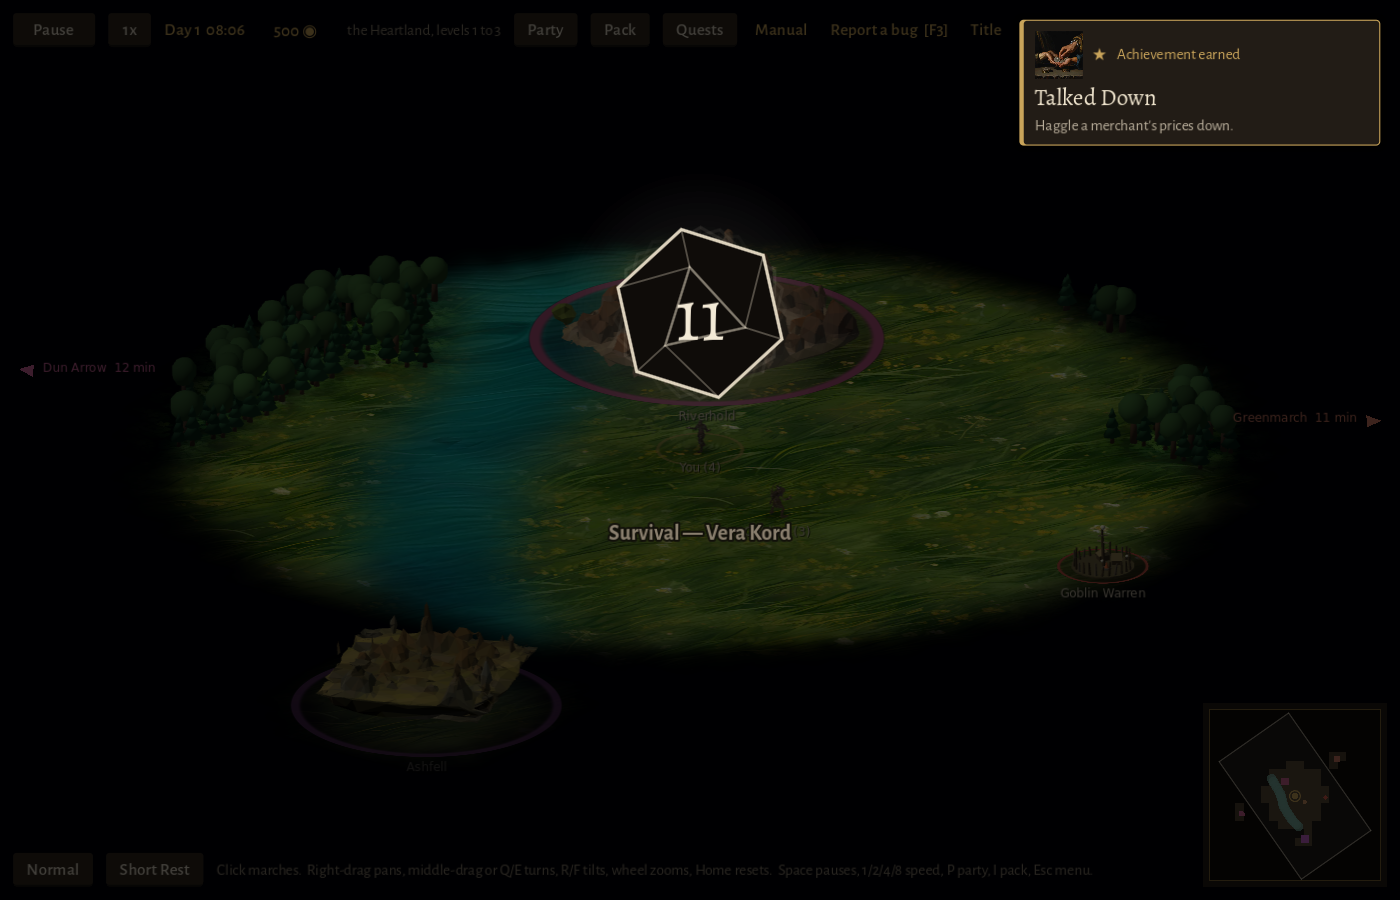
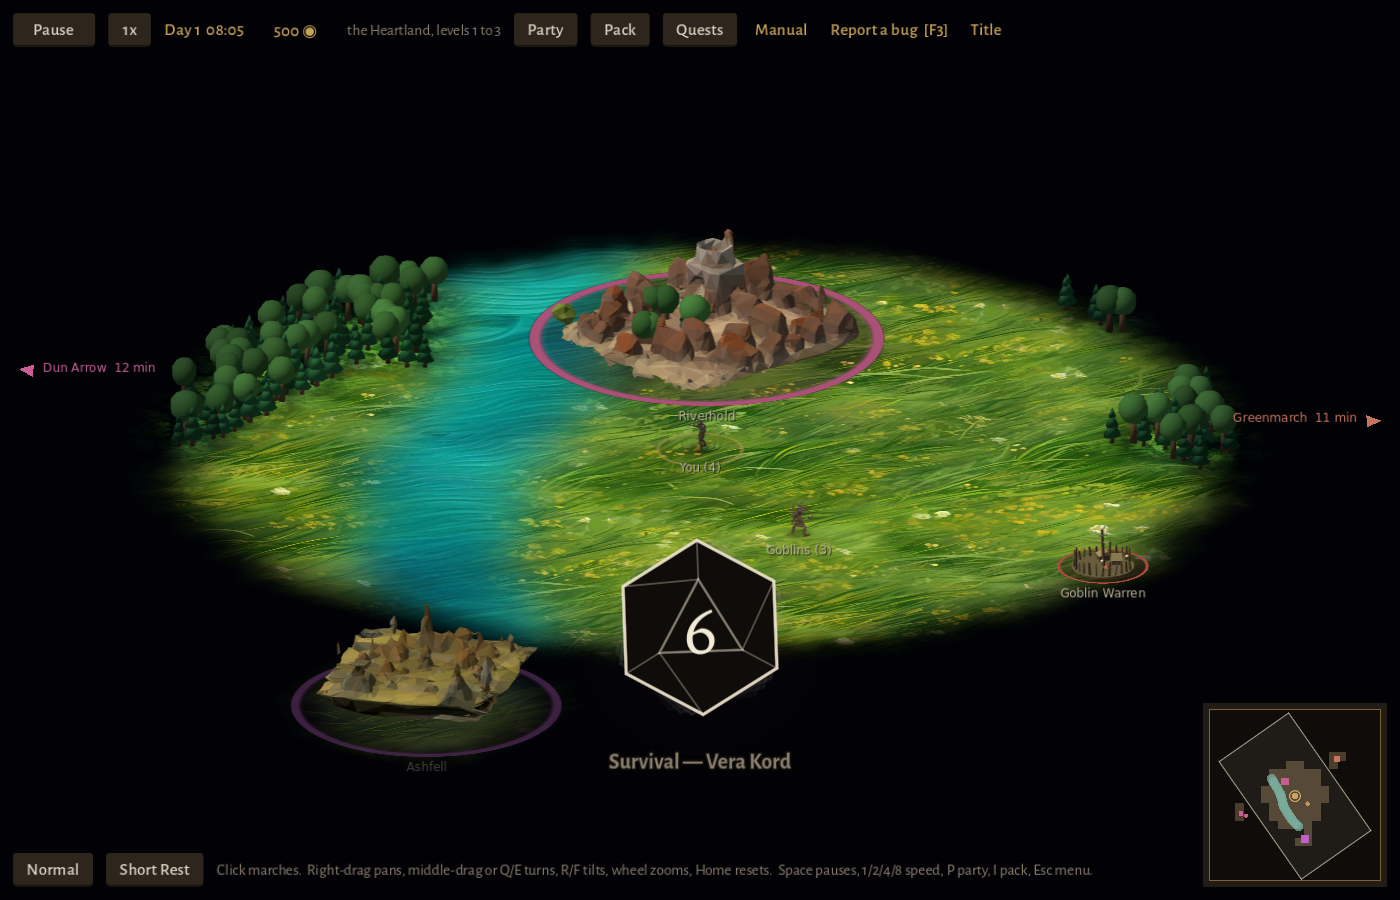
The map's die pops up at the bottom, undarkened, and fades out on its own
The owner: "in the campaign map, the background darkening shouldnt work,
and the dice should be more to the bottom, popping up, showing the
result. and disappearing after 2-3 seconds by fading". _map_roll no
longer uses the town's darkened popup: the die pops up (scale and fade
in) just above the HUD bar with nothing darkened, rolls without its drop
from above (DiceRoll.drop_in = false), says the HUD line when it lands,
stays up with its verdict for MAP_LINGER and fades out over MAP_FADE.
A new check replaces a die still fading.

tests/gif_map_roll.gd records docs/shots/live-roll-map.gif from the real
world scene under the movie maker at a fixed 25 fps.

Claude-Session: https://claude.ai/code/session_019eqg1iZ35fYFRmC11R2cGm

diff --git a/docs/expansion-plan.md b/docs/expansion-plan.md
@@ -8837,11 +8837,23 @@ didn't count. `SettlementVisit.check_preview`'s odds now follow the plain
 said the preview assumed a natural 1 always missed and a 20 always hit.
 
 **On the map** (`_map_roll`), foraging on the march, a lair's search, a
-landmark's search and sneaking past a lair roll in the same popup: the screen
-darkened, the die and its tally in the middle. The HUD line (and its sting and
-follow-up) waits for the die to land. A click on the die lands it. The popup
-does not pause the clock or take the mouse: a forage rolls while the party
-marches, and a click on the map still gives a march order. Only one is in the air at a time; a second check lands the first. A
+landmark's search and sneaking past a lair roll their own way. The owner: "in
+the campaign map, the background darkening shouldnt work, and the dice should
+be more to the bottom, popping up, showing the result. and disappearing after
+2-3 seconds by fading".
+- Nothing is darkened. The die pops up from the bottom, just above the HUD
+  bar (scale and fade in over `MAP_POP`, 0.25 s).
+- It rolls without the town's drop from above (`DiceRoll.drop_in = false`).
+- On landing, the HUD line (and its sting and follow-up) is said. The die
+  stays up with its verdict for `MAP_LINGER`, then fades out over
+  `MAP_FADE`: about 2.5 s of result in all.
+- A click on the die lands it. The die doesn't pause the clock or take the
+  mouse: a forage rolls while the party marches, and a click on the map still
+  gives a march order.
+- A new check replaces a die that is still fading at once.
+
+`docs/shots/live-roll-map.gif` is recorded from the real world scene by
+`tests/gif_map_roll.gd`, under Godot's movie maker at a fixed 25 fps. Only one is in the air at a time; a second check lands the first. A
 failed sneak's follow-up, the lair's own prompt, waits for the landing too, so
 the die says "missed" before the lair notices you. `WorldLairs.sneak_past`'s
 result now names its skill.
@@ -8877,7 +8889,7 @@ Under SORCMERC_FAST (every test and robot), and at the Instant pace, every one
 of these says its line on the first frame, exactly as before.
 
 Tests: `tests/test_dice_roll.gd` gains the verdict words and the no-early-face
-check (28 checks). `tests/test_live_rolls_world.gd` (19 checks, renamed from
+check (28 checks). `tests/test_live_rolls_world.gd` (22 checks, renamed from
 `test_live_rolls_town.gd`), covering both halves:
 - an investigate's die holds back the line, and the buttons wait for it
 - Enter lands it: the line is said, the buttons come back, and the visit's
@@ -8885,7 +8897,8 @@ check (28 checks). `tests/test_live_rolls_world.gd` (19 checks, renamed from
 - the die is in a popup, not in the page, and the popup goes when it lands
 - a panel rebuilt under a steal's die in the air keeps the held
   line
-- a lair search's die holds the HUD line, and the panel is freed on landing
+- a lair search's die holds the HUD line, darkens nothing, and sits near the
+  bottom; landed, it says the line, stays up, then fades out on its own
 - the FAST path is the old behaviour
 
 Pictures: `docs/shots/live-roll-town-{rolling,landed}.png` and
